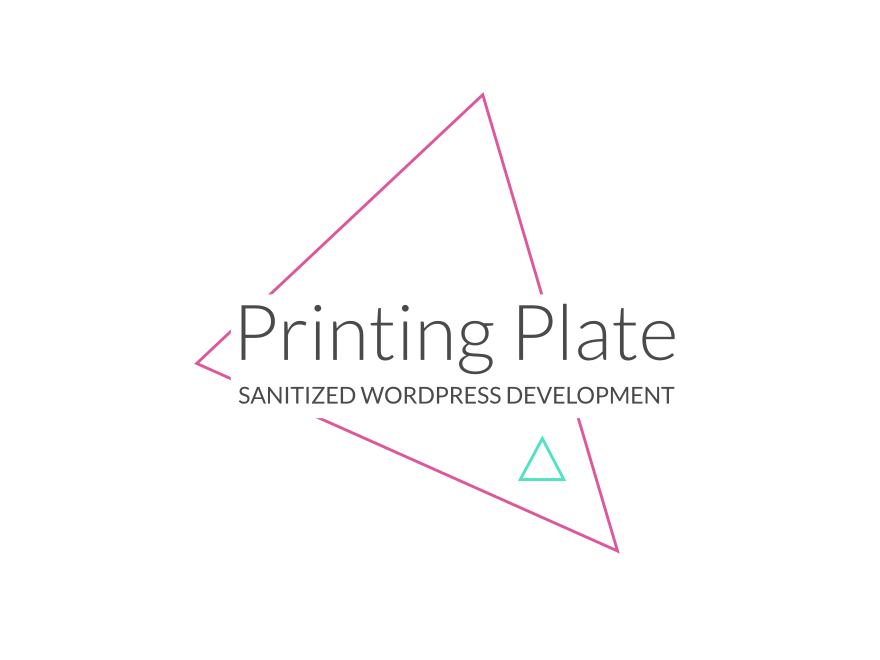
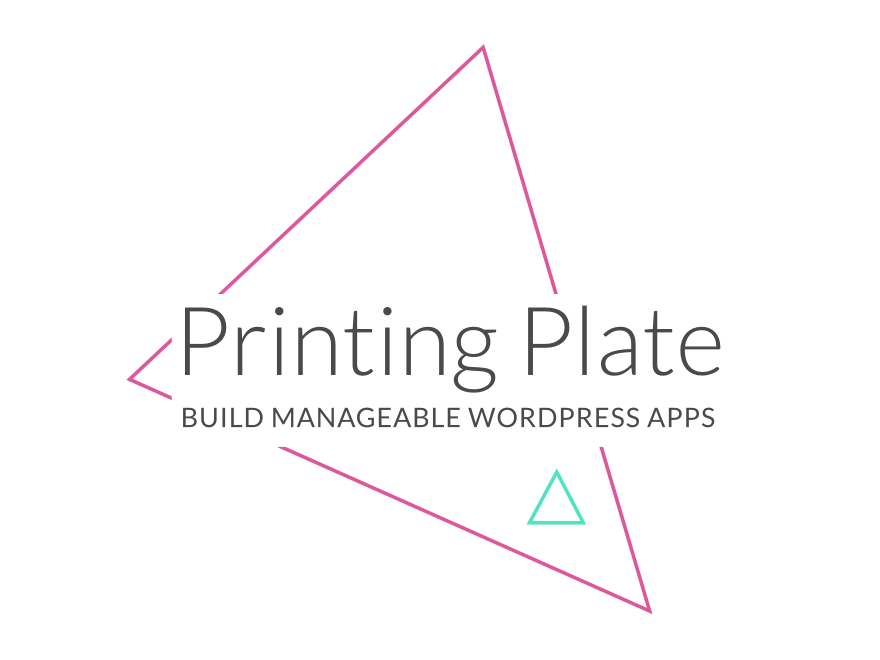
Fix copy stuff

diff --git a/README.md b/README.md
@@ -1,7 +1,7 @@
 # PrintingPlate
-## Sanitized WordPress development
+## Build manageable WordPress apps
 
-A flexibel and lightweight setup for professional WordPress projects.
+PrintingPlate is a lightweight, professional and easy to use project setup for WordPress. It makes working with WordPress faster, more secure and more fun.
 
 ### This is still very much in development. Use with caution.
 
